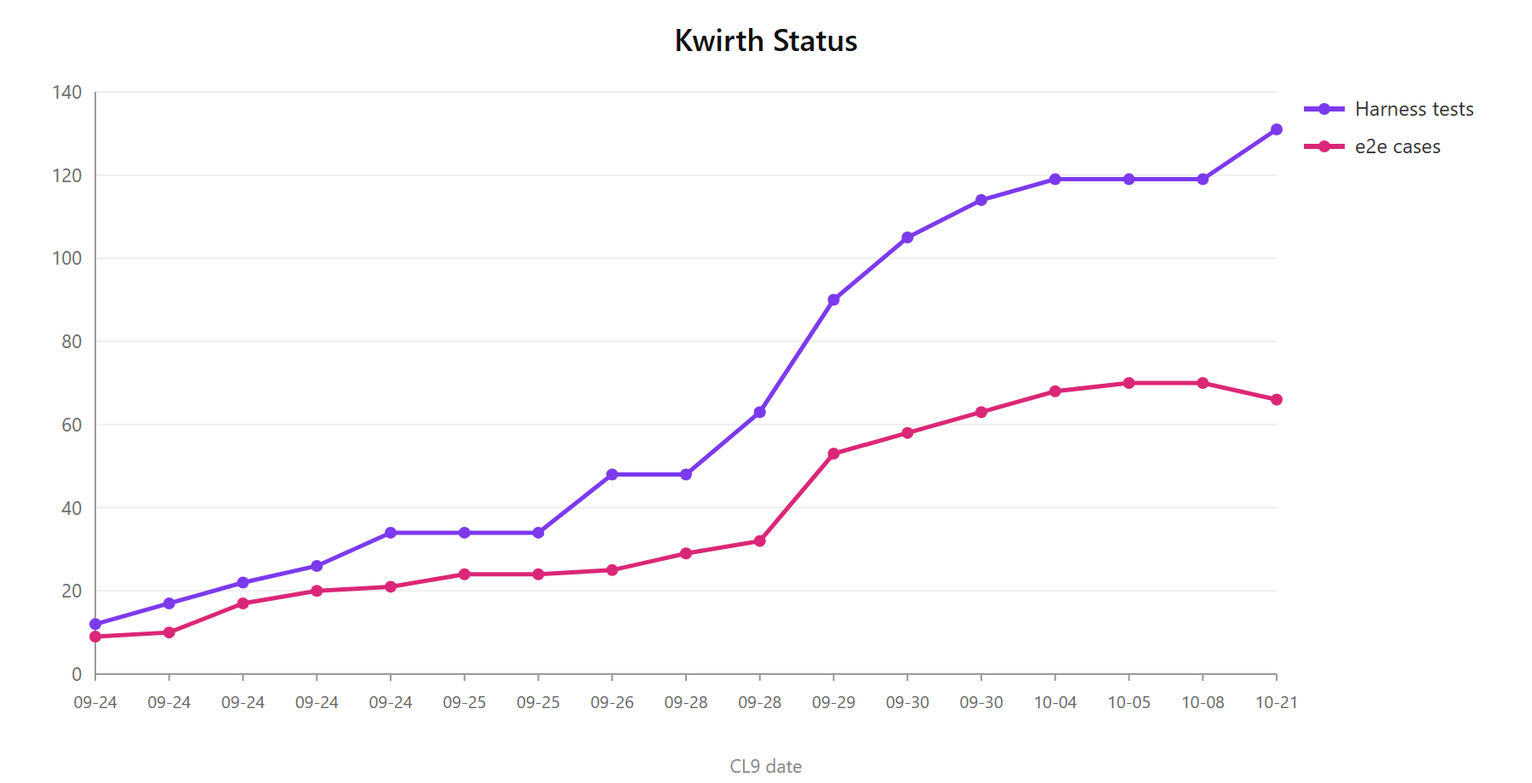
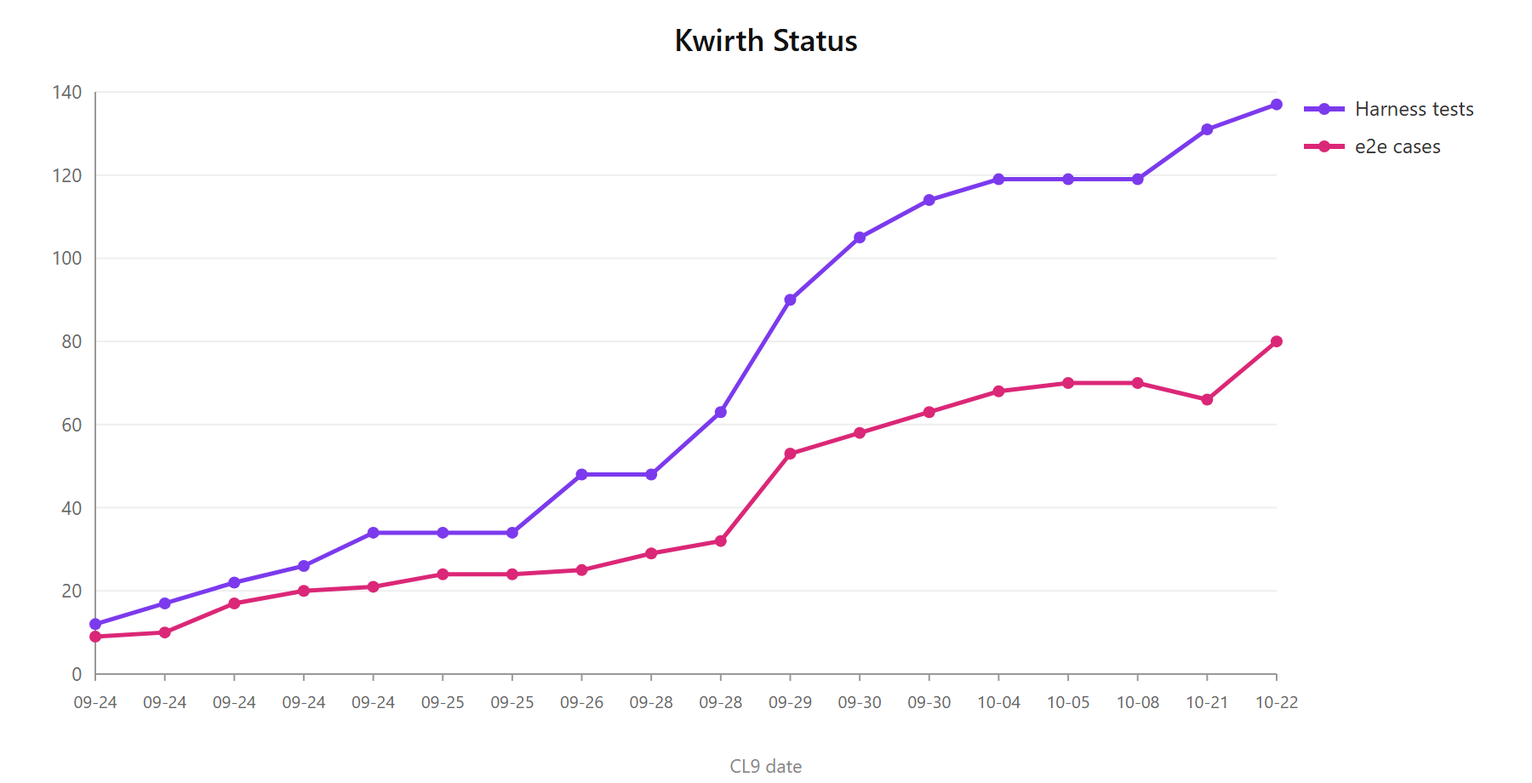
feat(status): el canal se pone su puerta — el inventario exige 'cluster' (0.8.0)
Status decia desde el principio, en el comentario de getChannelScopeLevel, que el minimo para ver el
inventario es 'cluster'. No lo comprobaba nadie. Y el core no lo iba a hacer por el: es cluster:true,
y esa rama de arranque entrega '*all' a cualquier clave valida sin mirar un scope — solo deja un
logWarning. Primero de los trece canales que el inventario de A12 encontro en esa situacion.

🔴 La autorizacion es del CANAL, no del core: es capa de negocio, no tecnica. El core autentica y
entrega la capacidad tecnica; que se sirve con ella lo sabe el canal.

Lo que se protege es el mapa de la instalacion: todas las extensiones montadas con su estado, las
rutas HTTP publicadas y el pool SQL.

⚠ Dos correcciones al inventario de A12, las dos mias: status NO es autonomo (es cluster:true; lei
mal un comentario que hablaba de las sources), y su log NUNCA estuvo abierto — lo sirve
/managekwirth/log, que exige admin y responde 403. El isAdmin del front es UX, no una puerta.

🔴 Y el QA manual encontro dos fallos encadenados que el harness no ve, y el segundo no era de este
cambio:

  1. El rechazo se mandaba como START+RESPONSE, y el front marca `started` con esa pareja SIN mirar
     el nivel. La pestaña se quedaba diciendo "the channel is running; the inventory should appear in
     a moment" para siempre. Ahora se deniega con UNSOLICITED.
  2. El motivo llegaba a data.signals, pero ese bloque SOLO se dibuja dentro del render que necesita
[…]

diff --git a/plugins/status/src/back/index.ts b/plugins/status/src/back/index.ts
@@ -1,4 +1,5 @@
-import { IInstanceConfig, ISignalMessage, AccessKey, EClusterType, BackChannelData, IInstanceMessage, EInstanceMessageType, EInstanceMessageAction, EInstanceMessageFlow, ESignalMessageLevel, IBackChannelObject, IBackChannelRequirements, IChannel } from '@kwirthmagnify/kwirth-common-back'
+import { IInstanceConfig, ISignalMessage, AccessKey, EClusterType, BackChannelData, IInstanceMessage, EInstanceMessageType, EInstanceMessageAction, EInstanceMessageFlow, ESignalMessageLevel, IBackChannelObject, IBackChannelRequirements, IChannel, keyAllows } from '@kwirthmagnify/kwirth-common-back'
+import { accessKeyDeserialize } from '@kwirthmagnify/kwirth-common'
 import { ERouteOwnerKind, IChannelInstances, IDceAccess, IDceMeta, IPluginAccess, IPluginStatus, IPublishedRoute, IRouteAccess } from '@kwirthmagnify/kwirth-common'
 import { EComponentHealth, EComponentKind, EStatusPayload, IStatusComponent, IStatusDce, IStatusDceConsumer, IStatusEdge, IStatusInventory, IStatusMessageResponse, IStatusSqlInfo, IStatusSqlPool } from '../common/StatusTypes'
 import { ProcessProbe } from './ProcessProbe'
@@ -250,7 +251,32 @@ class StatusChannel implements IChannel {
 
     websocketRequest(_newWebSocket: WebSocket, _instanceId: string, _instanceConfig: IInstanceConfig): void {}
 
+    /*
+        🔴 LA PUERTA DEL CANAL. El comentario de `getChannelScopeLevel` dice desde el principio que el
+        mínimo para ver el inventario es 'cluster'… y nadie lo comprobaba: el core entrega este canal a
+        cualquiera que esté logado, porque es `cluster: true` y su rama de arranque no mira la clave
+        (A12 de auth-hardening). La autorización es cosa del canal, no del core — el core autentica y
+        entrega la capacidad técnica; qué se sirve con ella es negocio, y el negocio lo sabe el canal.
+
+        Lo que se protege es real: el inventario enumera TODAS las extensiones montadas con su estado,
+        las rutas HTTP publicadas y el estado del pool SQL. Es el mapa de la instalación.
+
+        El log del core, que es lo más sensible que enseña la pestaña, ya estaba protegido y no por aquí:
+        lo sirve `/managekwirth/log` del core, que exige 'admin' y responde 403. El `isAdmin` del front
+        (`StatusLog.ts`) es UX —no pedir lo que va a ser rechazado—, no una puerta.
+    */
     addObject = async (webSocket: WebSocket, instanceConfig: IInstanceConfig, _ns: string, _pod: string, _container: string): Promise<boolean> => {
+        if (!this.hasClusterScope(instanceConfig.accessKey)) {
+            /*  🔴 UNSOLICITED, no RESPONSE de START. El front marca `started` en cuanto ve un
+                START+RESPONSE, SIN mirar el nivel, así que denegar con esa pareja dejaba la pestaña
+                diciendo "the channel is running; the inventory should appear in a moment" — para
+                siempre, y el motivo escrito en `data.signals` no llegaba a pintarse nunca porque ese
+                bloque solo se dibuja cuando ya hay inventario. Lo vio el QA del 2026-10-22. */
+            this.sendSignalMessage(webSocket, EInstanceMessageAction.START, EInstanceMessageFlow.UNSOLICITED, ESignalMessageLevel.ERROR,
+                instanceConfig.instance, "Status shows every extension mounted in this Kwirth: it needs the 'cluster' scope — ask an administrator")
+            return false
+        }
+
         let socket = this.webSockets.find(s => s.ws === webSocket)
         if (!socket) {
             socket = { ws: webSocket, lastRefresh: Date.now(), instanceIds: [] }
@@ -260,6 +286,24 @@ class StatusChannel implements IChannel {
         this.watchProcess()
         await this.sendInventory(socket, instanceConfig.instance)
         return true
+    }
+
+    /*
+        ¿La clave alcanza 'cluster' en la escalera de ESTE canal?
+
+        Envuelto en try/catch y con la comprobación de que la clave existe, porque un canal no debe
+        apoyarse en que el core le mande siempre algo deserializable: hoy el core rechaza el START sin
+        accessKey antes de llegar aquí, pero eso es una garantía de OTRO componente. Sin esto, una clave
+        ausente o mal formada no denegaba — reventaba.
+    */
+    private hasClusterScope = (accessKey: string | undefined): boolean => {
+        if (!accessKey) return false
+        try {
+            return keyAllows(accessKeyDeserialize(accessKey), 'cluster', this.getChannelScopeLevel)
+        }
+        catch {
+            return false
+        }
     }
 
     /** The event-loop sampler runs while at least one status tab is open, and only then. */

diff --git a/plugins/status/tests/back/scope.test.ts b/plugins/status/tests/back/scope.test.ts
@@ -1,0 +1,72 @@
+import { test } from 'node:test'
+import assert from 'node:assert/strict'
+import { StatusChannel } from '../../src/back/index'
+import { EStatusPayload, IStatusMessageResponse } from '../../src/common/StatusTypes'
+
+/*
+    La puerta del canal (A12 de auth-hardening).
+
+    Status declaraba desde el principio, en el comentario de `getChannelScopeLevel`, que el mínimo para
+    ver el inventario es 'cluster' — y no lo comprobaba nadie. El core entrega este canal a cualquiera
+    que esté logado: es `cluster: true`, y esa rama de arranque no mira la clave. La autorización es del
+    CANAL, no del core: el core autentica y entrega la capacidad técnica, y qué se sirve con ella es
+    negocio del canal.
+
+    Lo que se protege no es poca cosa: el inventario enumera todas las extensiones montadas con su
+    estado, las rutas HTTP publicadas y el pool SQL. Es el mapa de la instalación.
+
+    El log del core NO se prueba aquí porque no lo sirve este canal: lo sirve `/managekwirth/log`, que
+    exige 'admin' y responde 403. El `isAdmin` del front es UX, no una puerta.
+*/
+
+interface IEnviado { mensajes: IStatusMessageResponse[] }
+
+const socketFalso = (enviado: IEnviado) => ({
+    send: (raw: string) => { enviado.mensajes.push(JSON.parse(raw)) }
+}) as unknown as WebSocket
+
+/** 'id|type|resources', y el recurso es 'scope:namespace:group:pod:container'. */
+const clave = (resources: string) => `k1|permanent|${resources}`
+
+const arranca = async (accessKey: string | undefined) => {
+    const enviado: IEnviado = { mensajes: [] }
+    const canal = new StatusChannel({ name: 'c1', providers: [] } as never, {} as never)
+    const aceptado = await canal.addObject(socketFalso(enviado), { instance: 'i1', accessKey } as never, '', '', '')
+    return { aceptado, enviado }
+}
+
+test('con scope cluster se sirve el inventario', async () => {
+    const { aceptado, enviado } = await arranca(clave('cluster::::'))
+    assert.equal(aceptado, true)
+    assert.ok(enviado.mensajes.some(m => m.payloadType === EStatusPayload.INVENTORY), 'tendría que haber llegado la foto')
+})
+
+test('admin tambien entra: esta por encima de cluster en la escalera', async () => {
+    const { aceptado } = await arranca(clave('admin,cluster::::'))
+    assert.equal(aceptado, true)
+})
+
+test('🔴 una clave SIN scopes no ve el inventario, aunque este logada', async () => {
+    const { aceptado, enviado } = await arranca(clave('::::'))
+    assert.equal(aceptado, false)
+    assert.ok(!enviado.mensajes.some(m => m.payloadType === EStatusPayload.INVENTORY),
+        'el inventario no puede salir: enumera todas las extensiones montadas')
+})
+
+test('🔴 un scope por debajo (none) tampoco: la escalera se respeta', async () => {
+    const { aceptado } = await arranca(clave('none::::'))
+    assert.equal(aceptado, false)
+})
+
+test('🔴 sin accessKey no se sirve nada, y no revienta', async () => {
+    const { aceptado, enviado } = await arranca(undefined)
+    assert.equal(aceptado, false)
+    assert.ok(!enviado.mensajes.some(m => m.payloadType === EStatusPayload.INVENTORY))
+})
+
+test('al rechazar, se dice POR QUE y que scope hace falta', async () => {
+    const { enviado } = await arranca(clave('::::'))
+    const texto = JSON.stringify(enviado.mensajes)
+    assert.match(texto, /cluster/, 'el mensaje tiene que nombrar el scope que falta')
+    assert.match(texto, /administrator/, 'y a quien pedirselo')
+})

diff --git a/plugins/status/src/front/StatusTabContent.tsx b/plugins/status/src/front/StatusTabContent.tsx
@@ -274,10 +274,19 @@ const StatusTabContent: React.FC<IContentProps> = (props) => {
     )
 
     /*
-        The two empty states are different and have to be told apart: not started, what is missing is an
+        The three empty states are different and have to be told apart: not started, what is missing is an
         action by the user; started and with no snapshot, what is missing is for it to arrive — and there
         is nothing to do but wait a second.
+
+        🔴 And the third: something went wrong and SAID so. Without it, a refusal left the tab repeating
+        "the inventory should appear in a moment" for ever, while the reason sat in `data.signals`,
+        which is only painted further down — in the block that needs an inventory to be drawn at all.
+        An error that arrives before the first snapshot was an error nobody could read.
     */
+    if (data.signals.length > 0 && !inventory) {
+        return <EmptyState title='Kwirth Status could not start'
+            detail={data.signals[data.signals.length - 1]} />
+    }
     if (!data.started) {
         return <EmptyState title='Kwirth Status not started'
             detail='Start the channel (tab settings ⚙ → Start) to see what this Kwirth has inside.' />

diff --git a/plugins/status/tests/back/inventory.test.ts b/plugins/status/tests/back/inventory.test.ts
@@ -23,7 +23,16 @@ const socketFalso = (enviado: IEnviado) => ({
     send: (raw: string) => { enviado.mensajes.push(JSON.parse(raw)) }
 }) as unknown as WebSocket
 
-const configFalsa = (instance: string) => ({ instance }) as never
+/*
+    Una clave con scope 'cluster', que es el mínimo que el canal exige para enseñar el inventario.
+    Formato de accessKey: 'id|type|resources' — y el recurso es 'scope:namespace:group:pod:container'.
+
+    Antes esto no llevaba clave: `addObject` no miraba ninguna y el canal se servía a cualquiera que
+    estuviese logado. Que estos tests se cayeran al poner la puerta es la prueba de que la puerta corta.
+*/
+const CLAVE_CLUSTER = 'k1|permanent|cluster::::'
+
+const configFalsa = (instance: string, accessKey: string = CLAVE_CLUSTER) => ({ instance, accessKey }) as never
 
 /** Starts an instance against the given clusterInfo and returns the last inventory that was sent. */
 const inventarioDe = async (clusterInfo: unknown) => {

diff --git a/plugins/status/tests/back/process.test.ts b/plugins/status/tests/back/process.test.ts
@@ -13,7 +13,8 @@ interface ISent {
 }
 
 const fakeSocket = (sent: ISent) => ({ send: (raw: string) => { sent.messages.push(JSON.parse(raw)) } }) as unknown as WebSocket
-const config = (instance: string) => ({ instance }) as never
+// A key with the 'cluster' scope, which is the minimum the channel requires to serve anything.
+const config = (instance: string) => ({ instance, accessKey: 'k1|permanent|cluster::::' }) as never
 const channel = () => new StatusChannel({ name: 'c1', providers: [] } as never, {} as never)
 
 test('🔴 the sampler is OFF until a tab opens, and OFF again when the last one goes', async () => {

diff --git a/plugins/status/tests/back/sqlInfo.test.ts b/plugins/status/tests/back/sqlInfo.test.ts
@@ -15,7 +15,8 @@ const socketFalso = (enviado: IEnviado) => ({
     send: (raw: string) => { enviado.mensajes.push(JSON.parse(raw)) }
 }) as unknown as WebSocket
 
-const configFalsa = (instance: string) => ({ instance }) as never
+// Una clave con scope 'cluster', que es el mínimo que el canal exige para servir nada.
+const configFalsa = (instance: string) => ({ instance, accessKey: 'k1|permanent|cluster::::' }) as never
 
 const inventarioDe = async (clusterInfo: unknown) => {
     const enviado: IEnviado = { mensajes: [] }

diff --git a/plugins/status/docs/qa/test-metrics-history.md b/plugins/status/docs/qa/test-metrics-history.md
@@ -14,6 +14,7 @@
 
 | Fecha | Cierre | Harness | Cobertura (líneas / ramas / funcs) | e2e | Notas |
 |---|---|---|---|---|---|
+| 2026-10-22 | 🔴 **La puerta del canal: el inventario pide `cluster`** (`plugin/status@0.8.0`; A12 de [auth-hardening](../../../../plans/auth-hardening/PLAN.md)) | **137** ✅ (+6 de `scope.test.ts`: con `cluster` se sirve, `admin` también porque está por encima, sin scopes no, un escalón por debajo (`none`) tampoco, sin accessKey no revienta, y el rechazo dice qué scope falta y a quién pedirlo) | **98.01 % / 94.81 % / 94.70 %** (−0.01 / +0.02 / +0.44) | **5 specs · 80 casos**, sin cambios y **sin añadir**: el caso nuevo necesita una clave SIN scopes y el e2e entra siempre como `admin`. Queda cubierto por harness + QA manual. ✅ Los specs existentes **no se rompen**: `admin` está por encima de `cluster` en la escalera | El canal declaraba desde el principio, en el comentario de `getChannelScopeLevel`, que su mínimo es `cluster` — **y no lo comprobaba nadie**. El core no lo iba a hacer por él: es `cluster: true`, y esa rama de arranque entrega `'*all'` a cualquier clave válida sin mirar scopes (solo deja un `logWarning`). 🔴 **La autorización es del canal, no del core** (decisión de Julio, 2026-10-22: es capa de negocio, no técnica). Lo que se protege es el mapa de la instalación: todas las extensiones montadas con su estado, las rutas HTTP y el pool SQL. ⚠ **El log del core NO era el agujero**, al contrario de lo que decía el inventario inicial: lo sirve `/managekwirth/log`, que exige `admin` y responde 403; el `isAdmin` del front es UX. 🔴 **Y el QA manual encontró dos fallos encadenados que el harness no ve**: (1) el rechazo se mandaba como `START`+`RESPONSE`, y el front marca `started` con esa pareja **sin mirar el nivel**, así que la pestaña decía *"the channel is running; the inventory should appear in a moment"* para siempre — ahora se deniega con `UNSOLICITED`; (2) el motivo, aunque llegaba a `data.signals`, **solo se pintaba dentro del render que necesita inventario**, así que un error anterior al primer snapshot era invisible por construcción — eso no era de este cambio y se tragaba cualquier fallo temprano. Hay un tercer estado vacío que lo pinta. ⚠ Queda vivo que el core **descarta el `false` de `addObject`**: el canal deniega pero la instancia se queda registrada |
 | 2026-10-21 | El tamaño de las DCE y Routes al 50/25/25 (`plugin/status@0.7.5`) | **131** ✅ (+12 desde 0.7.2) | **98.02 % / 94.79 % / 94.26 %** | 1 spec · 66 casos — **dado por probado por el usuario** sin corrida verde completa | **DCE**: columna **Size** con el `back.js` y el `front.js` por separado (*"42.1 KB · 118.3 KB"*), "—" en la mitad que falte y nunca un cero, y el total en la cabecera; los bytes los mide el core al CARGAR cada DCE (`kwirth-common@0.5.73`: `IDceMeta.backBytes`/`frontBytes`), así que salen también las ya instaladas y las de dev. La tabla de DCE, de ancho fijo. **Routes**: columnas fijas al 50/25/25; ni ellas ni las de DCE se mueven al filtrar. Incluye también el filtro de líneas de los logs (0.7.3). **e2e**: los casos de Size y de Routes al 50/25/25 **pasaron** en las corridas que llegaron a ellos. 🔴 **El grafo sale de la batería para siempre**, por decisión del usuario: abrir la pestaña *Graph* congelaba el navegador sin cabeza durante minutos, con la DCE xyflow instalada y cargada; `02-graph` y `zz-capture-graph` quedan en `testIgnore` y nada abre esa pestaña. El helper espera a que el front termine de ejecutar los `front.js` de las extensiones (~17 s de script tras el login) y reabre el selector de canales hasta que aparece el canal. Los casos del log aceptan los dos modos (REST en Kubernetes, en la foto fuera de él). |
 | 2026-10-08 | Status declara que sabe vivir **sin Kubernetes** (`plugin/status@0.7.2`) | **119** ✅ (=) | **97.91 % / 94.44 % / 93.90 %** | 5 specs · 70 casos (sin cambios) | Una línea de código y ninguna de test, pero el motivo vale la pena: `sources` pasa de `[kubernetes]` a **`[kubernetes, none]`**. Desde el core ([`channel-sources`](../../../../plans/channel-sources/PLAN.md)) el selector de recursos **deshabilita** los canales cuyo `sources` no incluye el tipo del cluster seleccionado, y sin esta declaración Status se habría deshabilitado en un Kwirth sobre ECS — que es de los pocos sitios donde mirar qué pasa, porque **lo que enseña es el propio Kwirth**: providers, plugins, extensiones, rutas HTTP y el log del core, nada de lo cual sale de la API de Kubernetes. ⚠ **Sin test nuevo, y se dice por qué**: lo que hay que comprobar es que el **selector del front** lo habilite, y eso es un e2e del core contra un Kwirth sin cluster, no del plugin. El harness se corrió entero. Cobertura −0,21 pts en líneas respecto a 0.7.0, por el denominador |
 | 2026-10-05 | React Flow y elk, del DCE `xyflow` (`plugin/status@0.7.0`) | **119** ✅ (=) | **98.12 % / 94.44 % / 93.90 %** | 5 specs · 70 casos · **`02-graph` 12 ✅** | **El grafo deja de depender del core**: React Flow y elk ya no los publica el core, los trae el DCE `xyflow`. `@xyflow/react` se mapea a `window.__kwirth_dce__['xyflow'].instance.reactFlow` (el bundle sigue sin llevar ni un byte de React Flow, 108 KB) y elk se pide con `getDce<IXyflow>('xyflow').loadElk()`. `requiresExtension` = `dce:xyflow:0.1.0`: sin el DCE no se instala. Los tipos vienen del paquete **publicado** `@kwirthmagnify/kwirth-dce-xyflow@^0.1.0` (devDependency de npm, sin `file:`). Con los tipos reales de elk, `x`/`y` son opcionales: un nodo sin posición se salta y la cuenta cae a la colocación por filas, que era lo que ya pasaba. Harness y cobertura sin cambios: lo tocado es front, y lo cubre `02-graph` (**12 ✅**, layout real de elk: productores arriba y ninguna línea que suba). |

diff --git a/plans/auth-hardening/PLAN.md b/plans/auth-hardening/PLAN.md
@@ -92,18 +92,39 @@ contrato. Solo **cinco** la comprueban en su back:
 | | canales |
 |---|---|
 | ✅ **con puerta propia** | `agora` (`hasScopeLevelInResources`), `magnify` (`MagnifyAuth`, importado por el back), `excubitor` (`keyAllows`), `trivy`, `fileman` |
-| ⬜ **declaran escalera y no la aplican** | `censor`, `iter`, `mirc`, `montag`, `nettools`, `news`, `pinocchio`, `provider-debug`, `sender-debug`, `situs`, `spectrum`, `topology`, `status` |
+| ⬜ **declaran escalera y no la aplican** | `censor`, `iter`, `mirc`, `montag`, `nettools`, `news`, `pinocchio`, `provider-debug`, `sender-debug`, `situs`, `spectrum`, `topology` |
+| ✅ cerrados desde el inventario | `status` (`0.8.0`, 2026-10-22 — ver abajo) |
 
 De los trece, los que enseñan datos del cluster son los que corren prisa: **`montag`** y **`censor`**
 (log, filtrado o censurado, pero log), **`pinocchio`** (eventos + LLM), **`topology`** y **`nettools`**
 (forma y red del cluster). Los demás (`mirc`, `news`, `situs`, `spectrum`, los dos `*-debug`) exponen lo
 suyo, no el cluster.
 
-🔴 **`status` es caso aparte y peor**: comprueba `admin`… **en el front**
-([`front/StatusLog.ts:85`](../../plugins/status/src/front/StatusLog.ts#L85)) y en su back no hay nada. Una
-puerta en el front no es una puerta: el WebSocket se abre contra el back. Y lo que enseña es el estado
-interno de Kwirth (DCEs cargados, rutas, tamaños). Además es **autónomo**, así que entra por la primera
-rama, que tampoco valida.
+### ✅ `status` — cerrado el 2026-10-22 (`plugin/status@0.8.0`)
+
+El primero de los trece, y de camino **dos correcciones a este mismo inventario**, las dos mías:
+
+- **No es autónomo**: es `cluster: true`. Lo leí mal de un comentario que hablaba de las `sources`
+  (`EClusterType.NONE`, o sea que funciona sin Kubernetes), no del campo `cluster`.
+- **Su log NO estaba desprotegido.** Dije que la puerta estaba en el front y es falso: la sirve el core,
+  `/managekwirth/log` y `/previouslog` exigen `hasScope(req,'admin')` y responden **403**. El `isAdmin`
+  de `front/StatusLog.ts` es **UX** —no pedir lo que va a ser rechazado—, que es justo lo que A13 pide.
+
+**El agujero real era el inventario**, no el log: enumera todas las extensiones montadas con su estado,
+las rutas HTTP publicadas y el pool SQL — el mapa de la instalación — y lo veía cualquiera que estuviese
+logado. El canal ya decía en el comentario de `getChannelScopeLevel` que su mínimo es `cluster`; ahora lo
+**comprueba** (`keyAllows` con su propia escalera), con 6 tests.
+
+🔴 **Y el QA manual encontró dos fallos encadenados que el harness no ve** (y el segundo no era del
+cambio): el rechazo se mandaba como `START`+`RESPONSE`, y el front marca `started` con esa pareja **sin
+mirar el nivel**, dejando la pestaña en *"the channel is running; the inventory should appear in a
+moment"* para siempre; y el motivo, aunque llegaba a `data.signals`, **solo se pintaba dentro del render
+que necesita inventario**, así que cualquier error anterior al primer snapshot era invisible por
+construcción. Los dos arreglados.
+
+⚠ **Queda vivo, y es del core**: `addObject` devuelve `false` al denegar y **el core lo descarta** (uno
+de los cinco sitios donde no mira el retorno). El usuario ve el error, pero la instancia se queda
+registrada y el websocket abierto.
 
 ⚠ **Lo que hoy no existe y haría falta si algún día se quisiera genérico**: el canal no tiene forma de
 declarar su **mínimo**. `BackChannelData` tiene `cluster`, `resourced`, `routable`… pero ningún

diff --git a/plans/kwirth-status/PLAN-v2.md b/plans/kwirth-status/PLAN-v2.md
@@ -1,6 +1,6 @@
 # Kwirth Status v2 — Plan
 
-> **ESTADO — VIVO** (2026-10-21): S1, S2, S2b, S2c (DCE), S3, S4 (Plugins) y S6 (SQL) hechos; publicado `plugin/status@0.7.5` (tamaño de las DCE, Routes al 50/25/25; el filtro de líneas de los logs en 0.7.3) + `kwirth-common@0.5.73`. Queda S5 (el resto de extensiones) y el backlog (B1, B3, B4, B5, B8; B7 forzado por contrato). Cuelga de [PRD-v2.md](PRD-v2.md), que manda en el **qué** y el **por qué**.
+> **ESTADO — VIVO** (2026-10-22): S1, S2, S2b, S2c (DCE), S3, S4 (Plugins) y S6 (SQL) hechos; publicado `plugin/status@0.8.0` (🔴 **el canal exige `cluster` para servir el inventario** — A12; antes lo veía cualquiera que estuviese logado). Antes, `0.7.5` (tamaño de las DCE, Routes al 50/25/25; el filtro de líneas de los logs en 0.7.3) + `kwirth-common@0.5.73`. Queda S5 (el resto de extensiones) y el backlog (B1, B3, B4, B5, B8; B7 forzado por contrato). Cuelga de [PRD-v2.md](PRD-v2.md), que manda en el **qué** y el **por qué**.
 > Segunda versión tras [PLAN.md](PLAN.md) (cerrado en `plugin/status@0.2.7`).
 >
 > Documento **append-only**: lo que se decide no se borra, se marca. Si algo de aquí contradice lo que ves
@@ -164,3 +164,5 @@ Lo planeado para S2 era:
 | 2026-09-30 | `getInstances()` **obligatorio** desde `kwirth-common-back@0.6.0`, y la CL9 exige, al actualizar un plugin, subir common-back y declarar `implements IChannel`: *"a medida que los plugins vayan teniendo actualizaciones, se fuerce a que implementen ese interfaz"*. El core no rechaza instalar los viejos. |
 | 2026-10-21 | Tamaño de las DCE: el del **JavaScript** (`back.js` y `front.js`), no el del paquete, y en **`IDceMeta`** (`backBytes`/`frontBytes`) en vez de un método nuevo en `IDceAccess`. El core lo mide al **cargar**, no al instalar, para que salgan también las ya instaladas. |
 | 2026-10-21 | **El grafo sale de las pruebas** (B8): abrirlo congelaba el navegador del e2e; se da por probado el resto. |
+| 2026-10-22 | 🔴 **El canal se pone su puerta: el inventario exige `cluster`** (`plugin/status@0.8.0`, A12 de [auth-hardening](../auth-hardening/PLAN.md)). El mínimo estaba **escrito desde el principio** en el comentario de `getChannelScopeLevel` y no lo comprobaba nadie: el core no lo iba a hacer, porque `status` es `cluster: true` y esa rama de arranque entrega `'*all'` a cualquier clave válida sin mirar scopes. **La autorización es del canal, no del core** — es capa de negocio, no técnica. Lo que se protege es el mapa de la instalación: todas las extensiones montadas con su estado, las rutas HTTP y el pool SQL. ⚠ El **log del core nunca estuvo abierto**: lo sirve `/managekwirth/log`, que exige `admin` y responde 403; el `isAdmin` del front es UX, no una puerta. |
+| 2026-10-22 | **Un error anterior al primer snapshot era invisible**, y no por el cambio de arriba. El front guardaba los signals de error en `data.signals`, pero ese bloque **solo se dibuja dentro del render que necesita inventario**: cualquier fallo temprano dejaba la pestaña repitiendo *"the channel is running; the inventory should appear in a moment"*. Tercer estado vacío que lo pinta. Y el rechazo deja de mandarse como `START`+`RESPONSE`, porque el front marca `started` con esa pareja **sin mirar el nivel**. Lo encontró el QA manual; el harness no lo veía. |
